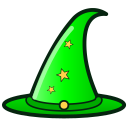
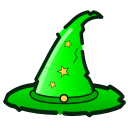
Hat wizardy

Changed region(s): [[0.0, 0.0625, 1.0, 0.9375], [0.4375, 0.5, 0.5625, 0.6562], [0.5, 0.3125, 0.5938, 0.375]]

diff --git a/assets/style.css b/assets/style.css
@@ -30,7 +30,7 @@ a:hover { text-decoration: underline; }
 .site-title {
   display: flex;
   align-items: center;
-  gap: .25em;
+  gap: .4em;
   font-size: 2.75em;
   font-weight: 700;
   font-family: var(--font-teletype);

diff --git a/docs/assets/style.css b/docs/assets/style.css
@@ -30,7 +30,7 @@ a:hover { text-decoration: underline; }
 .site-title {
   display: flex;
   align-items: center;
-  gap: .25em;
+  gap: .4em;
   font-size: 2.75em;
   font-weight: 700;
   font-family: var(--font-teletype);

diff --git a/build.py b/build.py
@@ -6,11 +6,16 @@ navigation pages (index, archive, per-tag) into docs/, which GitHub Pages
 serves. Run this before committing and pushing.
 
     pip install -r requirements.txt
-    python build.py
+    python build.py           # build into docs/
+    python build.py --serve   # build, then serve docs/ and open a browser
 """
 
+import argparse
+import functools
+import http.server
 import re
 import shutil
+import webbrowser
 from pathlib import Path
 
 import cairosvg
@@ -122,5 +127,25 @@ def main():
     print(f"Built {len(posts)} post(s), {len(tags)} tag(s) into docs/")
 
 
+def serve(port=8000):
+    """Serve docs/ locally and open it in a browser. Ctrl-C to stop."""
+    handler = functools.partial(http.server.SimpleHTTPRequestHandler, directory=str(DOCS_DIR))
+    with http.server.ThreadingHTTPServer(("127.0.0.1", port), handler) as httpd:
+        url = f"http://127.0.0.1:{port}/"
+        print(f"Serving {url} (Ctrl-C to stop)")
+        webbrowser.open(url)
+        try:
+            httpd.serve_forever()
+        except KeyboardInterrupt:
+            pass
+
+
 if __name__ == "__main__":
+    parser = argparse.ArgumentParser(
+        description="Build the hackinghat.com static site into docs/.",
+    )
+    parser.add_argument("--serve", action="store_true", help="after building, serve docs/ locally and open a browser")
+    args = parser.parse_args()
     main()
+    if args.serve:
+        serve()
